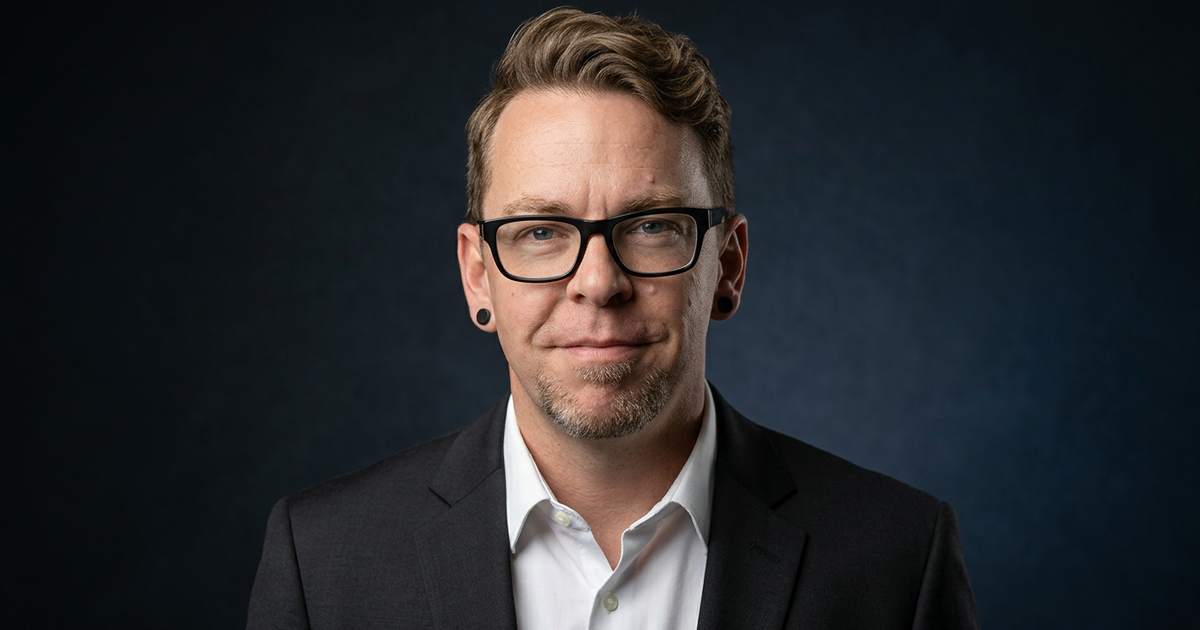
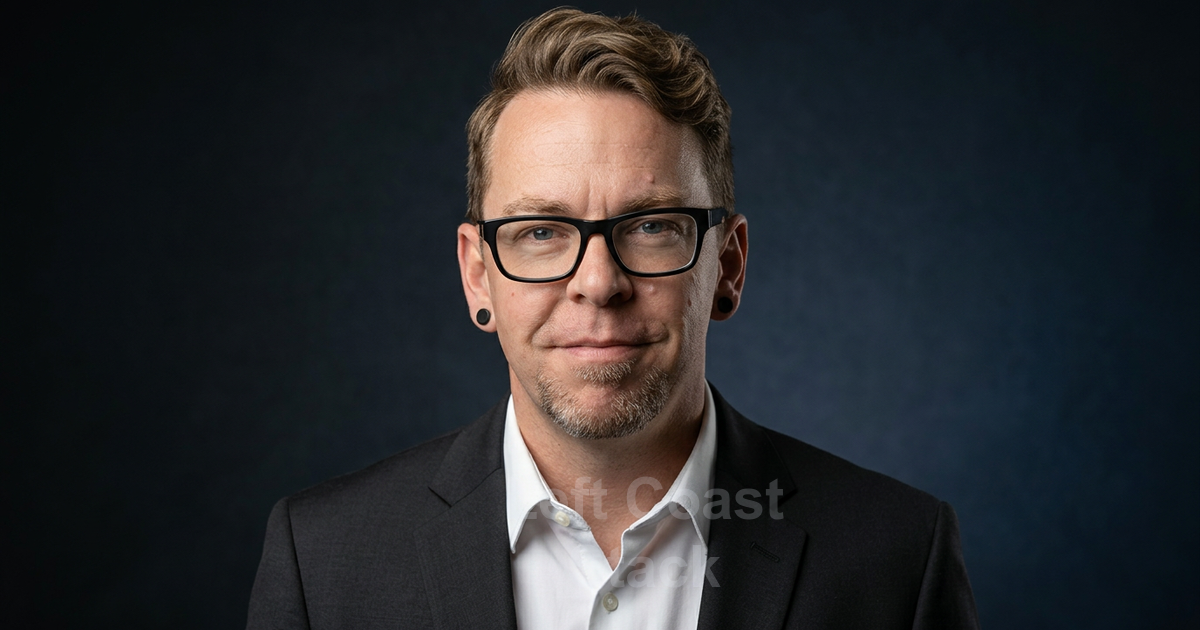
fix(overview): structure At a glance facts; brand OG image label
- Split legal name, founded, location, and focus into separate lines
- Add subtle Left Coast Stack typography on og-image.png

Made-with: Cursor

Changed region(s): [[0.4317, 0.754, 0.6475, 0.8444], [0.4933, 0.8746, 0.555, 0.9349], [0.5858, 0.8746, 0.6167, 0.9349]]

diff --git a/index.html b/index.html
@@ -937,14 +937,21 @@
         color: var(--color-text);
       }
 
-      .glance__summary {
+      .glance__facts {
+        margin: 0;
+        display: flex;
+        flex-direction: column;
+        gap: var(--space-md);
+      }
+
+      .glance__line {
         margin: 0;
         color: var(--color-text-muted);
         font-size: 1.0625rem;
         line-height: 1.65;
       }
 
-      .glance__summary strong {
+      .glance__line strong {
         color: var(--color-text);
         font-weight: 600;
       }
@@ -1211,12 +1218,18 @@
           <h2 id="glance-heading" class="section-title reveal" style="--delay: 0.05s">At a glance.</h2>
           <div class="glance__card reveal" style="--delay: 0.1s">
             <h3 class="glance__title">Left Coast Stack LLC</h3>
-            <p class="glance__summary">
-              <strong>Legal name:</strong> Left Coast Stack LLC · <strong>Founded:</strong> 2020 ·
-              <strong>Location:</strong> Spokane, Washington, United States · <strong>Focus:</strong> Custom software
-              engineering for product teams and enterprises—web, mobile, AI-enabled features, dashboards, platforms, and
-              marketing sites—delivered with modern stacks and production discipline.
-            </p>
+            <div class="glance__facts">
+              <p class="glance__line"><strong>Legal name:</strong> Left Coast Stack LLC</p>
+              <p class="glance__line"><strong>Founded:</strong> 2020</p>
+              <p class="glance__line">
+                <strong>Location:</strong> Spokane, Washington, United States
+              </p>
+              <p class="glance__line">
+                <strong>Focus:</strong> Custom software engineering for product teams and enterprises—web, mobile,
+                AI-enabled features, dashboards, platforms, and marketing sites—delivered with modern stacks and production
+                discipline.
+              </p>
+            </div>
             <figure class="glance__figure">
               <img
                 src="og-image.png"